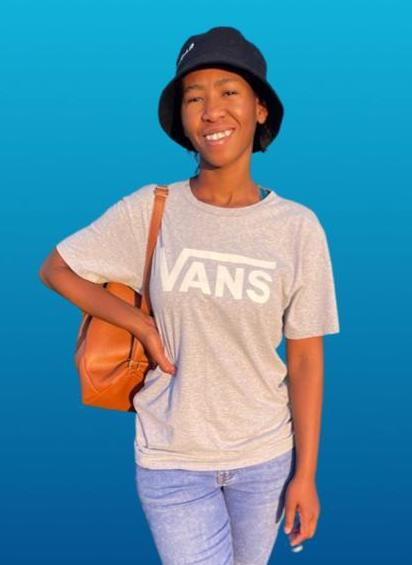
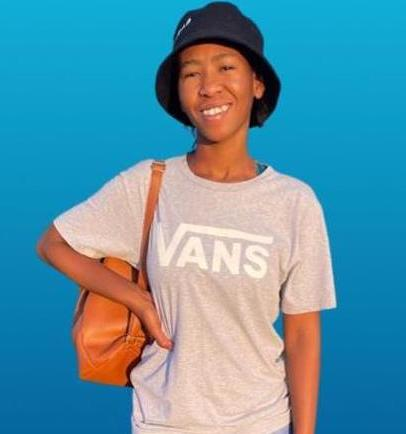
Adding about content and styles

diff --git a/src/components/about/about.css b/src/components/about/about.css
@@ -1,0 +1,103 @@
+.about_container {
+    display: grid;
+    grid-template-columns: 35% 50%;
+    gap: 15%;
+}
+
+.about_me {
+    width: 100%;
+    aspect-ratio: 1/1;
+    border-radius: 2rem;
+    background: linear-gradient(45deg, transparent, var(--color-primary), transparent);
+    display: grid;
+    place-items: center;
+}
+
+.about_me-image {
+    border-radius: 2rem;
+    overflow: hidden;
+    transform: rotate(10deg);
+    transition: var(--transition);
+}
+
+.about_me-image:hover {
+    transform: rotate(0);
+}
+
+.about_cards {
+    display: grid;
+    grid-template-columns: repeat(3, 1fr);
+    gap: 1.5rem;
+}
+
+.about_card {
+    background: var(--color-bg-variant);
+    border: 1px solid transparent;
+    border-radius: 1rem;
+    padding: 2rem;
+    text-align: center;
+    transition: var(--transition);
+}
+
+.about_card:hover {
+    background: transparent;
+    border-color: var(--color-primary-variant);
+    cursor: default;
+}
+
+.about_card_icon {
+    color: var(--color-primary);
+    font-size: 1.4rem;
+    margin-bottom: 1rem;
+}
+
+.about_card h5 {
+    font-size: 0.95rem;
+}
+
+.about_card small {
+    font-size: 0.7rem;
+    color: var(--color-light);
+}
+
+.about_content p {
+    margin: 2rem 0 2.6rem;
+    color: var(--color-light);
+}
+
+/* =========== MEDIA QUERIES (MEDIUM DEVICES) ========== */
+@media screen and (max-width: 1024px) {
+    .about_container {
+        grid-template-columns: 1fr;
+        gap: 0;
+    }
+
+    .about_me {
+        width: 50%;
+        margin: 2rem auto 4rem;
+    }
+    .about_content p {
+        margin: 1rem 0 1.5rem;
+    }
+}
+
+/* =========== MEDIA QUERIES (SMALL DEVICES) ========== */
+@media screen and (max-width: 600px) {
+    .about_me {
+        width: 65%;
+        margin: 0 auto 3rem;
+    }
+
+    .about_cards {
+        grid-template-columns: 1fr 1fr;
+        gap: 1rem;
+    }
+
+    .about_content {
+        text-align: center;
+    }
+
+    .about_content p {
+        margin: 1.5rem 0;
+    }
+}

diff --git a/src/components/about/About.jsx b/src/components/about/About.jsx
@@ -1,10 +1,44 @@
 import React from 'react';
 import './about.css';
+import ME from '../../assets/myimage.jpeg';
+import { FaAward } from 'react-icons/fa';
+import { FiUsers } from 'react-icons/fi';
+import { VscFolderLibrary } from 'react-icons/vsc';
 
 const About = () => {
   return (
     <section id="about">
+        <h5>Get to know</h5>
+        <h2>About Me</h2>
 
+        <div className="container about_container">
+          <div className="about_me">
+            <div className="about_me-image">
+              <img src={ME} alt='About Me' />
+            </div>
+          </div>
+          <div className="about_content">
+            <div className="about_cards">
+              <article className='about_card'>
+                <FaAward className='about_card_icon' />
+                <h5>Experience</h5>
+                <small>1+ years</small>
+              </article>
+              <article className='about_card'>
+                <FiUsers className='about_card_icon' />
+                <h5>Clients</h5>
+                <small>20+ clients</small>
+              </article>
+              <article className='about_card'>
+                <VscFolderLibrary className='about_card_icon' />
+                <h5>Projects</h5>
+                <small>10+ projects</small>
+              </article>
+            </div>
+            <p>Lorem, ipsum dolor sit amet consectetur adipisicing elit. Numquam animi dolorum, ad ipsa eius reprehenderit fugit optio necessitatibus harum dolorem iste corrupti nam amet debitis, quae quas cumque vitae ipsam?</p>
+            <a href='#contact' className='btn btn-primary'>Let's Talk</a>
+          </div>
+        </div>
     </section>
   )
 }

diff --git a/src/components/nav/Nav.jsx b/src/components/nav/Nav.jsx
@@ -1,4 +1,4 @@
-import React from 'react';
+import { useState } from 'react';
 import './nav.css';
 import { AiOutlineHome } from "react-icons/ai";
 import { AiOutlineUser } from "react-icons/ai";
@@ -7,13 +7,15 @@ import { RiServiceLine } from "react-icons/ri";
 import { BiMessageDetail } from "react-icons/bi";
 
 const Nav = () => {
+  const [activeNav, setActiveNav] = useState('#');
+
   return (
     <nav>
-      <a href='#'><AiOutlineHome /></a>
-      <a href="#about"><AiOutlineUser /></a>
-      <a href='#experience'><BiBook /></a>
-      <a href='#services'><RiServiceLine /></a>
-      <a href='#contact'><BiMessageDetail /></a>
+      <a href='#' onClick={() => setActiveNav('#')} className={activeNav === '#' ? 'active' : ''}><AiOutlineHome /></a>
+      <a href="#about" onClick={() => setActiveNav('#about')} className={activeNav === '#about' ? 'active' : ''}><AiOutlineUser /></a>
+      <a href='#experience' onClick={() => setActiveNav('#experience')} className={activeNav === '#experience' ? 'active' : ''}><BiBook /></a>
+      <a href='#services' onClick={() => setActiveNav('#services')} className={activeNav === '#services' ? 'active' : ''}><RiServiceLine /></a>
+      <a href='#contact' onClick={() => setActiveNav('#contact')} className={activeNav === '#contact' ? 'active' : ''}><BiMessageDetail /></a>
     </nav>
   )
 }

diff --git a/src/components/experience/Experience.jsx b/src/components/experience/Experience.jsx
@@ -3,7 +3,11 @@ import './experience.css';
 
 const Experience = () => {
   return (
-    <section id="experience"></section>
+    <section id="experience">
+      <h5>Skills I have</h5>
+      <h2>My Experience</h2>
+      
+    </section>
   )
 }
 

diff --git a/src/components/header/Header.jsx b/src/components/header/Header.jsx
@@ -1,7 +1,7 @@
 import React from 'react';
 import './header.css';
 import CTA from './CTA';
-import ME from "../../assets/myimage.jpeg";
+import ME from "../../assets/mynewimage.png";
 import Socials from './Socials';
 
 const Header = () => {

diff --git a/src/components/nav/nav.css b/src/components/nav/nav.css
@@ -26,3 +26,8 @@ nav a {
 nav a:hover {
     background: rgba(0, 0, 0, 0.3);
 }
+
+nav a.active {
+    background: var(--color-bg);
+    color: var(--color-white);
+}
